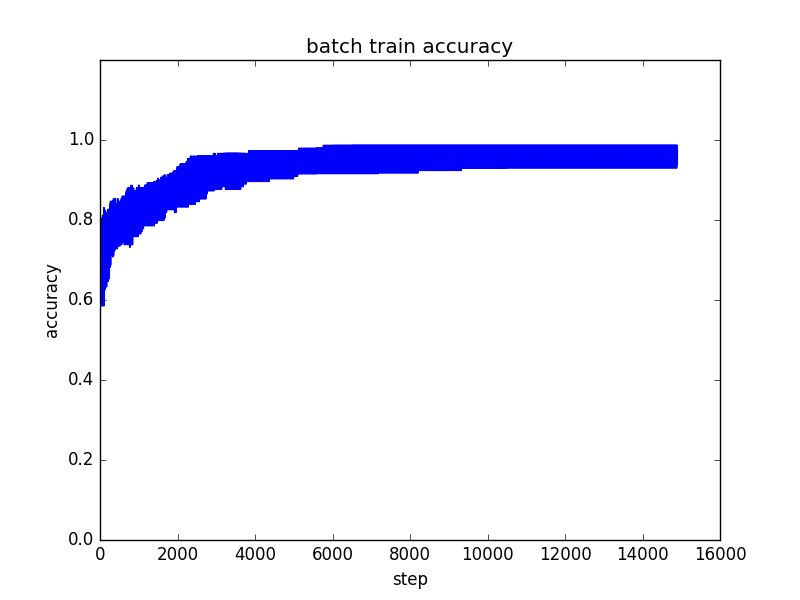
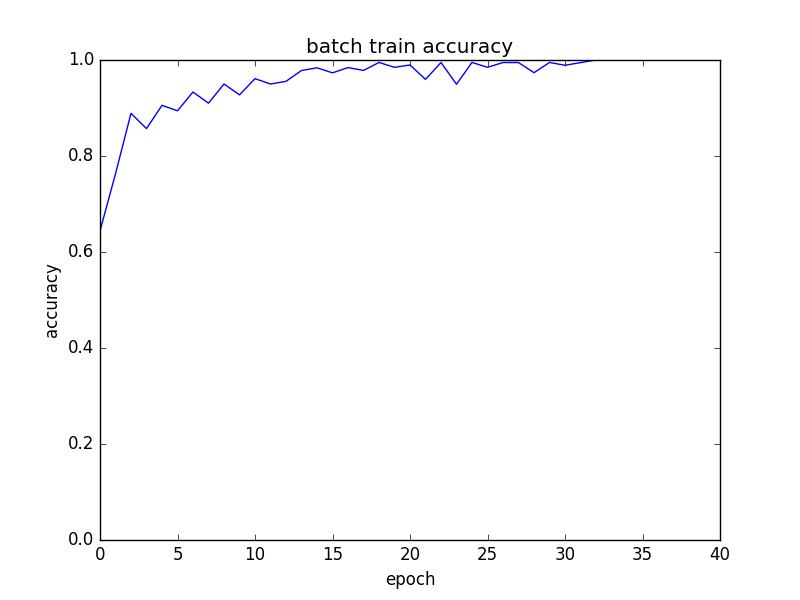
optimize parameters

diff --git a/code/sa_aspect_oop.py b/code/sa_aspect_oop.py
@@ -35,7 +35,7 @@ class Data:
         self.train_data, self.train_mask, self.train_binary_mask, self.train_label, self.train_seq_len, self.train_sentiment_for_word, \
         self.test_data, self.test_mask, self.test_binary_mask, self.test_label, self.test_seq_len, self.test_sentiment_for_word, \
         self.word_dict, self.word_dict_rev, self.embedding, aspect_list = utils.load_data(
-        	self.domain,
+            self.domain,
             self.data_dir,
             self.flag_word2vec,
             self.label_dict,
@@ -126,7 +126,7 @@ class Model:
         self.ln_b = tf.Variable(tf.zeros([self.nb_linear_inside]))
          
         self.sent_w = tf.Variable(tf.truncated_normal([self.nb_lstm_inside, self.nb_sentiment_label],
-                                                 stddev = 1.0 / math.sqrt(2 * self.nb_lstm_inside)))
+                                                 stddev = 1.0 / math.sqrt(self.nb_lstm_inside)))
         self.sent_b = tf.Variable(tf.zeros([self.nb_sentiment_label]))
         
         y_labels = tf.one_hot(self.tf_y_train,
@@ -146,37 +146,34 @@ class Model:
             X_train = tf.transpose(X_train, [1, 0, 2])
         else:
             X_train = tf.transpose(self.tf_X_train, [1, 0, 2])
-        # Reshaping to (n_steps*batch_size, n_input)
+        # Reshaping to (n_steps * batch_size, n_input)
         X_train = tf.reshape(X_train, [-1, self.embedding_size])
-        X_train = tf.add(tf.matmul(X_train, self.ln_w), self.ln_b)
-        X_train = tf.nn.relu(X_train)
+        X_train = tf.nn.relu(tf.add(tf.matmul(X_train, self.ln_w), self.ln_b))
+        # X_train = tf.nn.dropout(X_train, self.keep_prob)
         X_train = tf.split(axis = 0, num_or_size_splits = self.seq_max_len, value = X_train)
         
         # bidirection lstm
         # Creating the forward and backwards cells
         lstm_fw_cell = tf.nn.rnn_cell.BasicLSTMCell(self.nb_lstm_inside, forget_bias = 1.0)
         lstm_bw_cell = tf.nn.rnn_cell.BasicLSTMCell(self.nb_lstm_inside, forget_bias = 1.0)
-        # Pass lstm_fw_cell / lstm_bw_cell directly to tf.nn.bidrectional_rnn
-        # if only a single layer is needed
-        lstm_fw_multicell = tf.nn.rnn_cell.MultiRNNCell([lstm_fw_cell] * self.layers)
-        lstm_bw_multicell = tf.nn.rnn_cell.MultiRNNCell([lstm_bw_cell] * self.layers)
+
+        # lstm_fw_multicell = tf.nn.rnn_cell.MultiRNNCell([lstm_fw_cell] * self.layers)
+        # lstm_bw_multicell = tf.nn.rnn_cell.MultiRNNCell([lstm_bw_cell] * self.layers)
         # Get lstm cell output
-        outputs, _, _ = tf.contrib.rnn.static_bidirectional_rnn(lstm_fw_multicell,
-                                                     lstm_bw_multicell,
+        outputs, _, _ = tf.contrib.rnn.static_bidirectional_rnn(lstm_fw_cell,
+                                                     lstm_bw_cell,
                                                      X_train,
                                                      dtype='float32',
                                                      sequence_length = self.tf_X_seq_len)
-        # outputs = tf.concat(outputs, 2)
         output_fw, output_bw = tf.split(outputs, [self.nb_lstm_inside, self.nb_lstm_inside], 2)
         sentiment = tf.reshape(tf.add(output_fw, output_bw), [-1, self.nb_lstm_inside]) 
-        # sentiment = tf.multiply(sentiment, tf_X_train_mask)
-        # sentiment = tf.reduce_mean(sentiment, reduction_indices=1)
-        # sentiment = outputs[-1]
-        sentiment = tf.nn.dropout(sentiment, self.keep_prob)
+        
+        # sentiment = tf.reshape(outputs, [-1, 2 * self.nb_lstm_inside]) 
+        # sentiment = tf.nn.dropout(sentiment, self.keep_prob)
         sentiment = tf.add(tf.matmul(sentiment, self.sent_w), self.sent_b)
         sentiment = tf.split(axis = 0, num_or_size_splits = self.seq_max_len, value = sentiment)
 
-        # change back dimension to [batch_size, n_step, n_input]
+        # Change back dimension to [batch_size, n_step, n_input]
         sentiment = tf.stack(sentiment)
         sentiment = tf.transpose(sentiment, [1, 0, 2])
         sentiment = tf.multiply(sentiment, tf.expand_dims(self.tf_X_binary_mask, 2))
@@ -184,11 +181,11 @@ class Model:
         self.cross_entropy = tf.reduce_mean(tf.multiply(tf.nn.softmax_cross_entropy_with_logits(logits = sentiment, labels = y_labels), self.tf_X_train_mask))
         self.prediction = tf.argmax(tf.nn.softmax(sentiment), 2)
         self.correct_prediction = tf.reduce_sum(tf.multiply(tf.cast(tf.equal(self.prediction, self.tf_y_train), tf.float32), self.tf_X_binary_mask))
-        # TODO here, fix tf_X_train_mask to 0, 1 vector
-        self.global_step = tf.Variable(0, trainable = False)
-        self.learning_rate = tf.train.exponential_decay(self.LEARNING_RATE, self.global_step, 1000, 0.65, staircase = True)
-        self.optimizer = tf.train.GradientDescentOptimizer(self.learning_rate).minimize(self.cross_entropy, global_step = self.global_step)
-        
+        # self.global_step = tf.Variable(0, trainable = False)
+        # self.learning_rate = tf.train.exponential_decay(self.LEARNING_RATE, self.global_step, 1000, 0.65, staircase = True)
+        # self.optimizer = tf.train.GradientDescentOptimizer(self.learning_rate).minimize(self.cross_entropy, global_step = self.global_step)
+        self.optimizer = tf.train.AdagradOptimizer(self.learning_rate).minimize(self.cross_entropy)
+
         self.saver = tf.train.Saver()
         self.init = tf.global_variables_initializer()
 
@@ -290,55 +287,54 @@ class Model:
                                      self.keep_prob: 0.5})
 
             
+            self.evaluate(data, it + 100 >= self.TRAINING_ITERATIONS, self.flag_train)
+
+            correct_prediction_train, cost_train = self.sess.run([self.correct_prediction, self.cross_entropy], 
+                                                  feed_dict={self.tf_X_train: x_train_batch,
+                                                             self.tf_X_train_mask: x_train_mask_batch,
+                                                             self.tf_X_binary_mask: x_train_binary_mask_batch,
+                                                             self.tf_X_seq_len: x_train_seq_len,
+                                                             self.tf_X_sent_for_word: x_train_sent_for_word,
+                                                             self.tf_y_train: y_train_batch,
+                                                             self.keep_prob: 1.0})
+
+            print('training_accuracy => %.3f, cost value => %.5f for step %d' % \
+            (float(correct_prediction_train)/np.sum(x_train_binary_mask_batch), cost_train, it))
 
             if it % 100 == 0:
-                self.save_model()
-                self.evaluate(data, it + 100 >= self.TRAINING_ITERATIONS, self.flag_train)
-
-                correct_prediction_train, cost_train = self.sess.run([self.correct_prediction, self.cross_entropy], 
-                                                      feed_dict={self.tf_X_train: x_train_batch,
-                                                                 self.tf_X_train_mask: x_train_mask_batch,
-                                                                 self.tf_X_binary_mask: x_train_binary_mask_batch,
-                                                                 self.tf_X_seq_len: x_train_seq_len,
-                                                                 self.tf_X_sent_for_word: x_train_sent_for_word,
-                                                                 self.tf_y_train: y_train_batch,
-                                                                 self.keep_prob: 0.5})
-
-                print('training_accuracy => %.3f, cost value => %.5f for step %d, learning_rate => %.5f' % \
-                (float(correct_prediction_train)/np.sum(x_train_binary_mask_batch), cost_train, it, self.learning_rate.eval(session = self.sess)))
-            
                 loss_list.append(cost_train)
                 accuracy_list.append(float(correct_prediction_train)/np.sum(x_train_binary_mask_batch))
 
                 plt.plot(accuracy_list)
                 axes = plt.gca()
-                axes.set_ylim([0, 1.2])
+                axes.set_ylim([0, 1])
                 plt.title('batch train accuracy')
                 plt.ylabel('accuracy')
-                plt.xlabel('step')
+                plt.xlabel('epoch')
                 plt.savefig('accuracy.png')
                 plt.close()
 
                 plt.plot(loss_list)
                 plt.title('batch train loss')
                 plt.ylabel('loss')
-                plt.xlabel('step')
+                plt.xlabel('epoch')
                 plt.savefig('loss.png')
                 plt.close()
 
+        self.save_model()
         self.sess.close()
 
 
 def main():
     batch_size = 128
-    seq_max_len = 39
+    seq_max_len = 42
     nb_sentiment_label = 3
     nb_sentiment_for_word = 6
     embedding_size = 100
-    nb_linear_inside = 256
+    nb_linear_inside = 512
     nb_lstm_inside = 256
     layers = 1
-    TRAINING_ITERATIONS = 8000
+    TRAINING_ITERATIONS = 5000
     LEARNING_RATE = 0.1
     WEIGHT_DECAY = 0.0005
     label_dict = {
@@ -346,16 +342,16 @@ def main():
         'asneutral' : 0,
         'asnegative': 2
     }
-    data_dir = '../data/ABSA_SemEval2015/'
+    data_dir = '../data/ABSA_SemEval2016/'
     domain = 'Restaurants'
-    flag_word2vec = True
-    flag_addition_corpus = True
-    flag_change_file_structure = True
+    flag_word2vec = False
+    flag_addition_corpus = False
+    flag_change_file_structure = False
     flag_use_sentiment_embedding = False
     flag_use_sentiment_for_word = False
     flag_train = True
 
-    negative_weight = 2.5
+    negative_weight = 1.0
     positive_weight = 1.0
     neutral_weight = 1.0
 

diff --git a/code/utils.py b/code/utils.py
@@ -63,7 +63,7 @@ def load_embedding(domain, data_dir, flag_addition_corpus, flag_word2vec, flag_u
     f_corpus.close()
 
     if (flag_word2vec):
-        os.system('cd ../fastText && ./fasttext cbow -input ../data/' + domain + '_corpus_for_word2vec.txt -output ../data/' + domain + '_cbow -dim 100 -minCount 5 -epoch 1000')
+        os.system('cd ../fastText && ./fasttext cbow -input ../data/' + domain + '_corpus_for_word2vec.txt -output ../data/' + domain + '_cbow_more_2016 -dim 100 -minCount 5 -epoch 3000')
     
     sswe = defaultdict(list)
     if (flag_use_sentiment_embedding):
@@ -75,7 +75,7 @@ def load_embedding(domain, data_dir, flag_addition_corpus, flag_word2vec, flag_u
                 sswe[elements[0].strip()].append(float(elements[i]))
         f_se.close()
 
-    f_vec = codecs.open('../data/' + domain + '_cbow.vec', 'r', 'utf-8')
+    f_vec = codecs.open('../data/' + domain + '_cbow_more_2016.vec', 'r', 'utf-8')
     idx = 0
     for line in f_vec:
         if len(line) < 50:
@@ -516,7 +516,7 @@ def load_data(domain, data_dir, flag_word2vec, label_dict, seq_max_len, flag_add
 
 
 def main():
-    seq_max_len = 100
+    seq_max_len = 42
     negative_weight = 2.5
     positive_weight = 1.0
     neutral_weight = 5.0
